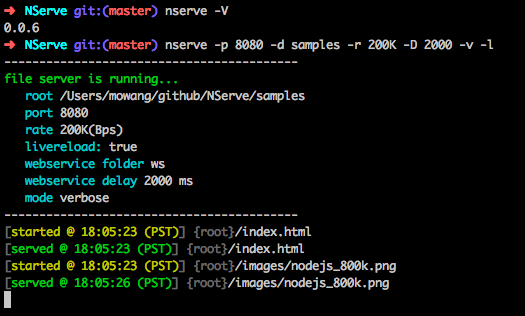
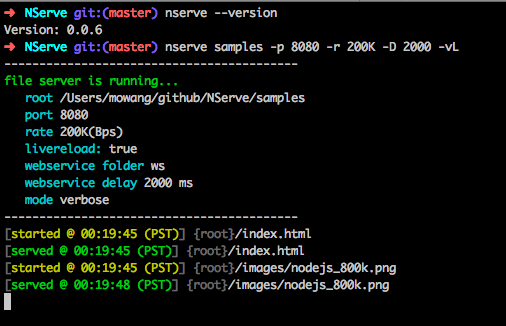
update readme and screenshot

Changed region(s): [[0.0, 0.2278, 0.8004, 0.9968], [0.0, 0.0, 1.0, 0.1994]]

diff --git a/README.md b/README.md
@@ -22,19 +22,19 @@ or install the development version from source code
 
 In the folder where you want to serve the files. Run the command below. 
 
-**nserve** [options]
+**nserve** [root] [options]
 
-Options:
-        
-        -h, --help                                  output usage information
-        -V, --version                               output the version number
-        -p, --port <n>                              specify the port number [3000]
-        -r, --rate <bit rate>                       specify the file transfer rate in Bps, e.g. 100K or 5M
-        -v, --verbose                               enter verbose mode
-        -d, --directory <root>                      specify the root directory, relative or absolute [current directory]
-        -w, --webservice-folder <folder name>       specify the web service folder name ["ws"]
-        -D, --webservice-delay <n>                  specify the delay of the web service in millisecond [0]
-        -l, --live-reload                           automatically reload HTML/CSS/JS files
+root: directory where files are served [current folder]
+
+options:
+
+    --version                                   print out the version number
+    -p PORT, --port PORT                        specify the port number [3000]
+    -r RATE, --rate RATE                        specify the file transfer rate in Bps, e.g. 100K or 5M [unlimited]
+    -W FOLDER, --webservice-folder FOLDER       specify the webservice folder name [ws]
+    -D DELAY, --webservice-delay DELAY          specify the delay of the web service in millisecond [0]
+    -v, --verbose                               enter verbose mode
+    -L, --live-reload                           automatically reload HTML/CSS/JS files
 
 and open [http://localhost:3000](http://localhost:3000) in your browser.
 
